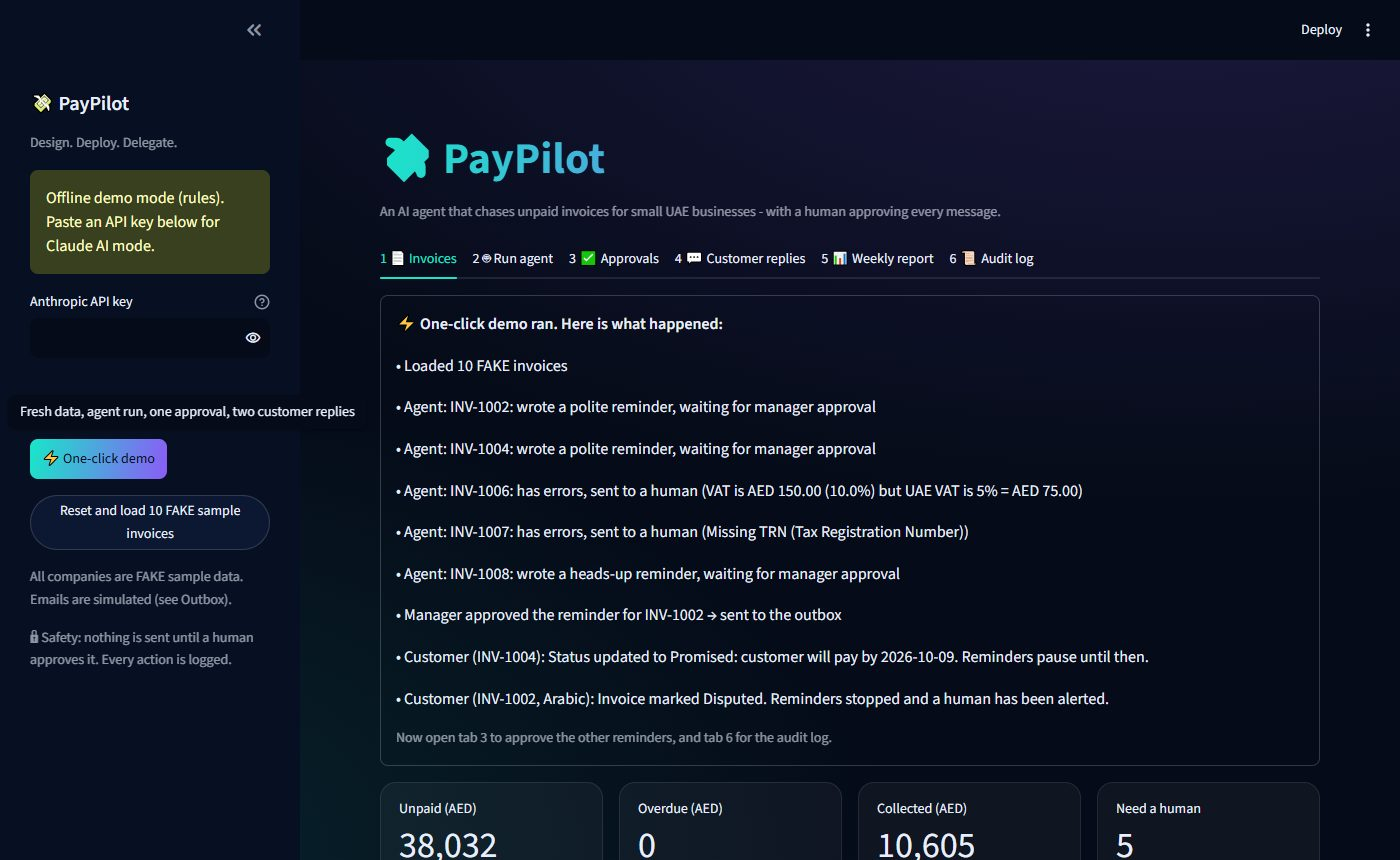
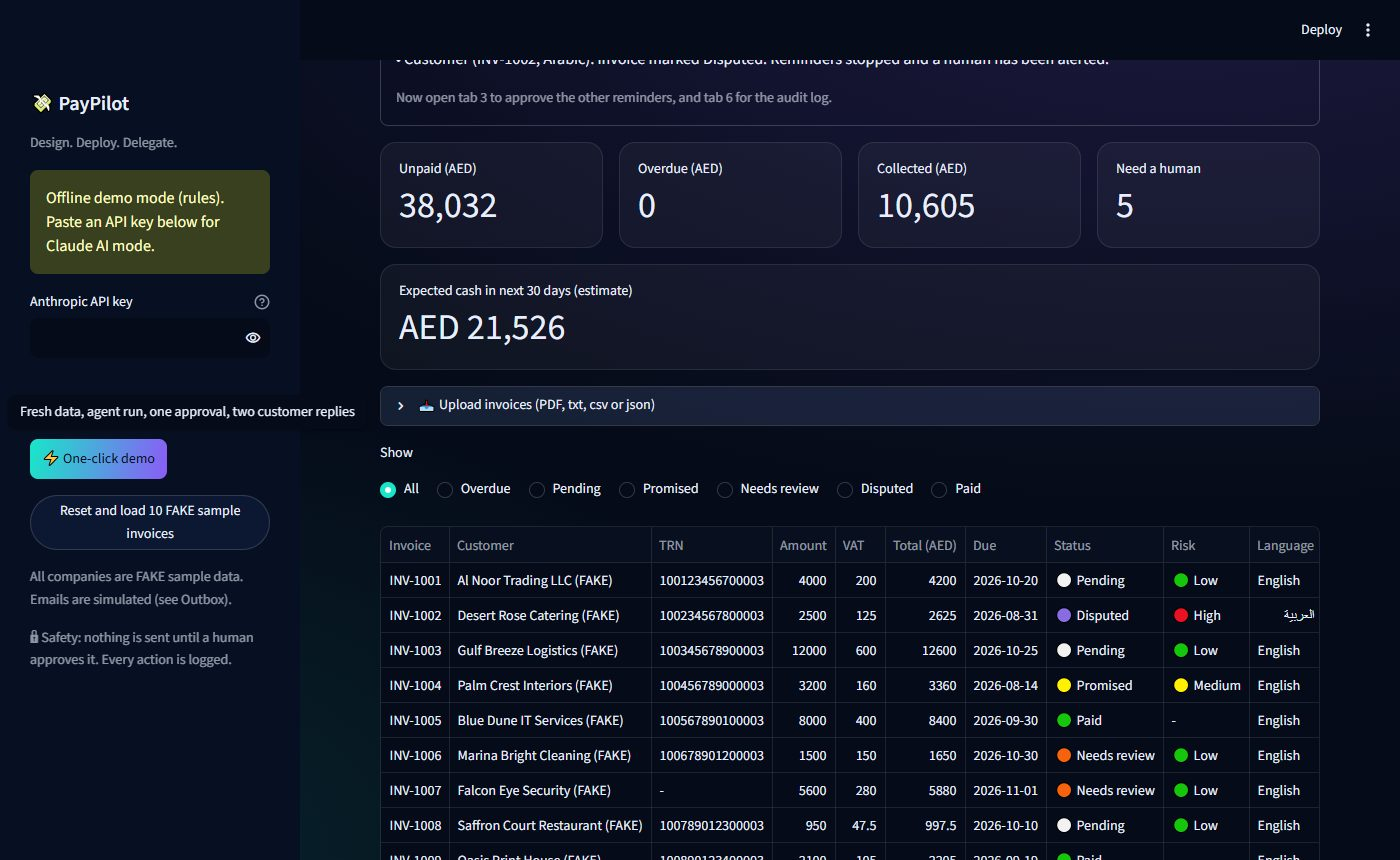
Agent reasoning box, business model, real app screenshots on the site

diff --git a/docs/index.html b/docs/index.html
@@ -139,6 +139,16 @@ tr.new{animation:slidein .5s both}
 .toast{position:fixed;bottom:26px;left:50%;transform:translate(-50%,40px);opacity:0;background:#0d1b36;border:1px solid var(--teal);padding:12px 22px;border-radius:14px;z-index:90;transition:.4s;font-size:14.5px;max-width:92vw;box-shadow:0 0 40px rgba(25,230,201,.25)}
 .toast.show{opacity:1;transform:translate(-50%,0)}
 .toast.bad{border-color:var(--red);box-shadow:0 0 40px rgba(255,84,112,.3)}
+/* gallery */
+.feat{display:flex;gap:10px;flex-wrap:wrap;margin-top:26px}
+.shots{display:grid;grid-template-columns:1fr 1fr;gap:26px;margin-top:40px}
+.shots figure{border:1px solid var(--line);border-radius:18px;overflow:hidden;background:#071022;transition:.4s;box-shadow:0 30px 70px rgba(0,0,0,.4)}
+.shots figure:hover{transform:translateY(-8px) scale(1.01);border-color:rgba(25,230,201,.6);box-shadow:0 30px 80px rgba(25,230,201,.15)}
+.shots .bar{display:flex;gap:6px;padding:10px 14px;background:rgba(255,255,255,.05)}
+.shots .bar i{width:10px;height:10px;border-radius:50%;background:#2b3a5c;display:block}
+.shots img{width:100%;display:block}
+.shots figcaption{padding:12px 16px;color:var(--mut);font-size:14px}
+@media(max-width:900px){.shots{grid-template-columns:1fr}}
 /* safety */
 .two{display:grid;grid-template-columns:1fr 1fr;gap:40px;align-items:center;margin-top:40px}
 @media(max-width:900px){.two{grid-template-columns:1fr}}
@@ -172,7 +182,7 @@ footer .wrap{display:flex;justify-content:space-between;gap:14px;flex-wrap:wrap}
 <div id="bar"></div>
 <nav id="nav"><div class="wrap">
   <a href="#top" class="logo"><i></i>PayPilot</a>
-  <div class="links"><a href="#problem">Problem</a><a href="#story">How it works</a><a href="#demo">Live demo</a><a href="#safety">Safety</a><a href="#fit">Why it wins</a></div>
+  <div class="links"><a href="#problem">Problem</a><a href="#story">How it works</a><a href="#demo">Live demo</a><a href="#app">Real app</a><a href="#safety">Safety</a><a href="#fit">Why it wins</a></div>
   <a class="btn p app-link" href="#" target="_blank" rel="noopener">Open live app &rarr;</a>
 </div></nav>
 
@@ -292,6 +302,25 @@ footer .wrap{display:flex;justify-content:space-between;gap:14px;flex-wrap:wrap}
   </div>
 </div></section>
 
+<section id="app"><div class="wrap">
+  <div class="eyebrow rv">The real app</div>
+  <h2 class="rv">Not a mock-up. <span class="grad">A working agent.</span></h2>
+  <p class="lead rv">Screenshots from the live PayPilot app (fake data). PDF invoices, Arabic and English reminders, risk scores and a 30-day cash forecast.</p>
+  <div class="feat rv">
+    <span class="chip c-tea">PDF invoice reading</span><span class="chip c-vio">Arabic + English</span>
+    <span class="chip c-amb">Risk score per invoice</span><span class="chip c-grn">30-day cash forecast</span>
+    <span class="chip c-red">Human approval gate</span><span class="chip c-gry">Full audit log</span>
+  </div>
+  <div class="shots">
+    <figure class="rv"><div class="bar"><i></i><i></i><i></i></div><img loading="lazy" src="img/invoices.jpg" alt="PayPilot invoices table with status, risk and language"><figcaption>Every invoice: status, risk, language, problems</figcaption></figure>
+    <figure class="rv d1"><div class="bar"><i></i><i></i><i></i></div><img loading="lazy" src="img/approvals.jpg" alt="Approval queue with editable reminder"><figcaption>Approval queue: edit, switch to Arabic, approve</figcaption></figure>
+    <figure class="rv"><div class="bar"><i></i><i></i><i></i></div><img loading="lazy" src="img/report.jpg" alt="Weekly cash summary and forecast"><figcaption>Weekly cash summary and 30-day forecast</figcaption></figure>
+    <figure class="rv d1"><div class="bar"><i></i><i></i><i></i></div><img loading="lazy" src="img/audit.jpg" alt="Audit log"><figcaption>Audit log: every action, who, when</figcaption></figure>
+  </div>
+  <div style="text-align:center;margin-top:40px"><a class="btn p app-link" href="#" target="_blank" rel="noopener">Try it yourself &rarr;</a>
+  <p class="note" style="margin-top:12px">Tip: press the one-click demo button in the sidebar.</p></div>
+</div></section>
+
 <section id="safety"><div class="wrap">
   <div class="eyebrow rv">Safety by design</div>
   <h2 class="rv">The rule is in the <span class="grad">code,</span> not the prompt.</h2>
@@ -336,6 +365,16 @@ footer .wrap{display:flex;justify-content:space-between;gap:14px;flex-wrap:wrap}
     <div class="tile rv"><small>COMMUNICATION</small><h3>Reads replies</h3><p>Promise, dispute or paid claim &mdash; handled or escalated.</p></div>
     <div class="tile rv d1"><small>REPORTS</small><h3>Weekly cash summary</h3><p>Plain-English owner update, plus downloadable report.</p></div>
     <div class="tile rv d2"><small>TRUST</small><h3>Approval + audit log</h3><p>Human sign-off before money messages. Full trail of actions.</p></div>
+  </div>
+</div></section>
+
+<section id="model"><div class="wrap">
+  <div class="eyebrow rv">Business model</div>
+  <h2 class="rv">Simple. Affordable. <span class="grad">Pays for itself.</span></h2>
+  <div class="tiles">
+    <div class="tile rv"><small>WHO</small><h3>Small UAE businesses</h3><p>Trading, catering, cleaning, services &mdash; anyone who invoices on credit and chases payments by hand.</p></div>
+    <div class="tile rv d1"><small>PRICE (PROPOSED)</small><h3>AED 99 / month</h3><p>One flat price per business. Agent, approvals, reports and audit log included.</p></div>
+    <div class="tile rv d2"><small>VALUE</small><h3>One invoice pays the year</h3><p>Recover a single AED 3,000 invoice and a full year of PayPilot (AED 1,188) is covered.</p></div>
   </div>
 </div></section>
 

diff --git a/app.py b/app.py
@@ -166,13 +166,23 @@ with tabs[1]:
              "(polite first, firmer later) and sends them **to the approval queue - not to customers**. "
              "Invoices with errors or no reply after 3 reminders go to a human.")
     if st.button("▶ Run agent now", type="primary"):
+        start_id = (db.query("SELECT COALESCE(MAX(id),0) m FROM audit")[0]["m"])
         with st.spinner("Agent working..."):
             mode, lines = agent.run_agent()
-        st.session_state["agent_out"] = (mode, lines)
+        st.session_state["agent_out"] = (mode, lines, start_id)
         st.rerun()
     if "agent_out" in st.session_state:
-        mode, lines = st.session_state["agent_out"]
+        mode, lines, start_id = st.session_state["agent_out"]
         st.success(f"Agent finished (mode: {mode}). Now open tab 3 to approve.")
+        why = db.query("SELECT invoice_id, detail, actor FROM audit WHERE action='reasoning' AND id>? ORDER BY id",
+                       (start_id,))
+        if why:
+            with st.container(border=True):
+                st.markdown("**🧠 Agent reasoning**  " + (
+                    "· written by Claude" if mode.startswith("Claude") else "· rule-based explanation (no API key)"))
+                for w in why:
+                    st.markdown(f"- {w['detail']}")
+        st.markdown("**What it did**")
         for ln in lines:
             st.write("• " + ln)
 
@@ -189,6 +199,10 @@ with tabs[2]:
             is_ar = inv.get("language") == "ar"
             st.markdown(f"**{d['invoice_id']}** · {inv['customer']} · AED {inv['total']:,.2f} · "
                         f"tone: `{d['tone']}` · language: `{'Arabic' if is_ar else 'English'}` · to: {inv['email']}")
+            why = db.query("SELECT detail FROM audit WHERE action='reasoning' AND invoice_id=? ORDER BY id DESC LIMIT 1",
+                           (d["invoice_id"],))
+            if why:
+                st.caption("🧠 Why: " + why[0]["detail"])
             st.text_input("Subject", d["subject"], key=f"sub{d['id']}", disabled=True)
             body = st.text_area("Email (you can edit before approving)", d["body"], key=f"body{d['id']}", height=190)
             a, b, c3 = st.columns([1, 1, 2])
@@ -267,10 +281,10 @@ with tabs[4]:
     left, right = st.columns(2)
     with left:
         st.markdown("**Unpaid money by age (AED)**")
-        st.bar_chart(pd.Series(r["buckets"]))
+        st.bar_chart(pd.Series(r["buckets"]), color="#19e6c9")
     with right:
         st.markdown(f"**Expected cash, next 30 days: AED {r['forecast_total']:,.0f}**")
-        st.bar_chart(pd.Series(r["forecast"]))
+        st.bar_chart(pd.Series(r["forecast"]), color="#8b5cf6")
         st.caption("Estimate: paid-chance is 90% pending, 85% promised, 55% overdue, 30% with errors, 15% disputed.")
     st.download_button("⬇ Download report (Markdown)", core.report_markdown(r), "paypilot_weekly_report.md")
 

diff --git a/agent.py b/agent.py
@@ -15,6 +15,9 @@ Steps: call list_attention. For each invoice, follow its suggested action:
 - draft_* actions: call check_invoice, then draft_reminder (tone matches the action; write a courteous,
   professional email), then request_approval with the draft id.
 - escalate_errors / escalate_no_reply: call escalate_to_human with a clear reason (list the exact errors).
+Before you act on each invoice, call log_action with action="reasoning", the invoice_id, and in detail one or
+two plain sentences explaining WHY you chose that tone or that escalation (days late, reminders already sent,
+errors found, customer language). Write drafts in the invoice's language field (en or ar).
 Rules you must follow: never try to send an email yourself before a human approves (send_email is blocked
 until then). Never invent amounts or dates. Never threaten the customer. When finished, reply with a
 2-3 line summary of what you did."""
@@ -33,10 +36,30 @@ def run_agent(max_steps=40):
     return "rules", _run_rules()
 
 
+def _why(item):
+    """Plain-English reason for what the agent decided about one invoice (offline mode)."""
+    iid, a, n = item["invoice_id"], item["action"], item["reminders_sent"]
+    lang = " The customer prefers Arabic, so I'll write it in Arabic." if item.get("language") == "ar" else ""
+    if a == "escalate_errors":
+        return (f"{iid} has errors ({'; '.join(item['issues'])}). Chasing a wrong invoice would look careless and "
+                "start a dispute, so I am NOT chasing it. I'm sending it to a human to fix first.")
+    if a == "escalate_no_reply":
+        return f"{iid} has had {n} reminders and still no payment. More emails won't help, so a human should call."
+    if a == "draft_heads-up":
+        return f"{iid} is due in {item['days_to_due']} days. A friendly heads-up now makes late payment less likely." + lang
+    tone = {"draft_polite": "polite", "draft_firm": "firm", "draft_final": "final-notice"}[a]
+    why_tone = {"polite": "no reminder has been sent yet, so I start polite",
+                "firm": f"{n} reminder(s) were sent without payment, so I step up to a firm tone",
+                "final-notice": f"{n} reminders were sent without payment, so this is the final notice"}[tone]
+    return (f"{iid} is {item['days_overdue']} days overdue and {why_tone}. "
+            "I'll draft it and send it to the manager. I won't send anything myself." + lang)
+
+
 def _run_rules():
     lines = []
     for item in tools.list_attention()["invoices"]:
         iid, action = item["invoice_id"], item["action"]
+        db.log("agent (rules)", "reasoning", iid, _why(item))
         if action == "escalate_errors":
             reason = "Invoice has errors, cannot chase: " + "; ".join(item["issues"])
             tools.escalate_to_human(iid, reason)

diff --git a/build_deck.py b/build_deck.py
@@ -65,6 +65,13 @@ slide("Built for what matters to Red Rock", [
     "Communications + escalation  ->  reply handling, humans for the hard cases",
     "Automated reports  ->  weekly cash summary",
     "Human approval + audit log  ->  built in"])
+slide("Business model", [
+    "Who: small UAE businesses that invoice on credit (trading, catering, services)",
+    "Price (proposed): AED 99 per month per business",
+    "One recovered AED 3,000 invoice pays for the whole year",
+    "Low cost to run: the agent only drafts, the owner approves in seconds",
+    "Later: pay-per-recovery option and accountant partnerships"],
+      sub="Simple, affordable, easy to try")
 slide("Next steps", [
     "Real email sending (Gmail / Outlook) after approval",
     "Connect to accounting software (e.g. Zoho, QuickBooks)",

diff --git a/make_screenshots.py b/make_screenshots.py
@@ -26,6 +26,7 @@ try:
         pg.get_by_role("button", name=re.compile("One-click demo")).click()
         time.sleep(6)
         shot = lambda n: pg.screenshot(path=f"docs/img/{n}.jpg", type="jpeg", quality=82)
+        pg.mouse.move(900, 400); pg.mouse.wheel(0, 640); time.sleep(1)
         shot("invoices")
         pg.get_by_role("tab").nth(2).click(); time.sleep(2)
         pg.mouse.wheel(0, 120); time.sleep(1)
